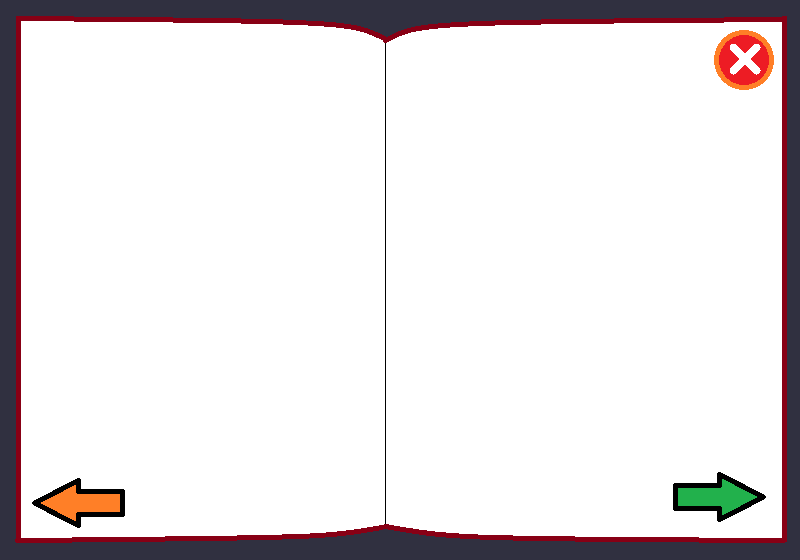
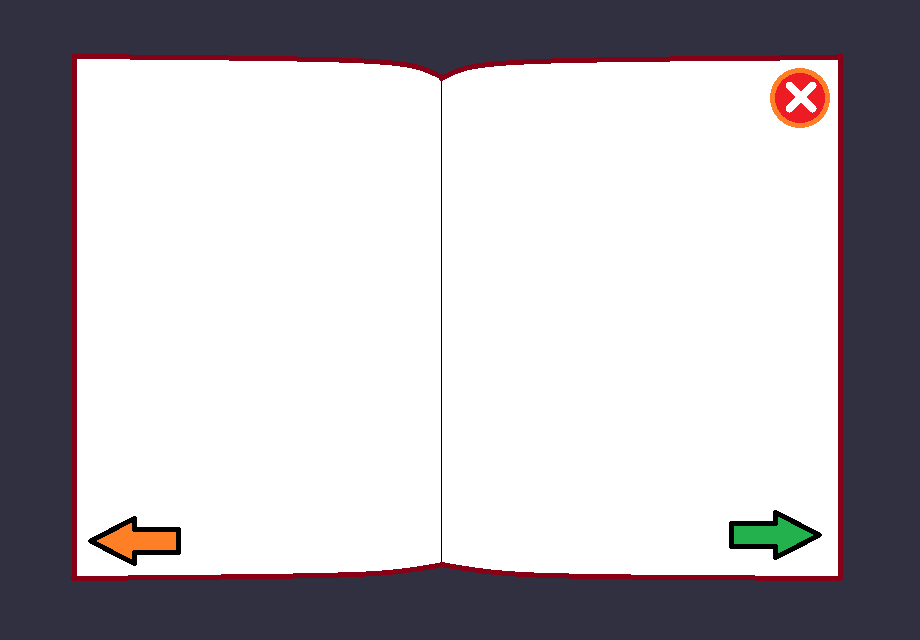
how to play module added
2019142034 조용준

Changed region(s): [[0.0, 0.0304, 1.0, 0.9714]]

diff --git a/project/module_state/how_to_play.py b/project/module_state/how_to_play.py
@@ -1,0 +1,62 @@
+from pico2d import *
+from module_object.buttons_obj import *
+from event_table_module import *
+from module_object.background_obj import Background, Book_page
+import state_changer
+import game_world
+
+def handle_events():
+    global cur_selecting
+    events = get_events()
+    for raw_event in events:
+        event = convert_event(raw_event)
+        if event == QUIT:
+            state_changer.change_state('', None)
+        elif event == KESCD:
+            state_changer.change_state('select_char', 'resume')
+        elif event == MLD:
+            button_clicked = -1
+            for i in range(4):
+                if(buttons[i].isclicked(raw_event.x, raw_event.y)):
+                    button_clicked = i
+                    break
+            if button_clicked == 0:
+                pass
+            if button_clicked == 1:
+                pass
+            elif button_clicked == 2:
+                pass
+            elif button_clicked == 3:
+                pass
+
+def enters(option):
+    global bg, book, cur_selecting, buttons
+    bg = Background('howt')
+    cur_selecting = 0
+    book = Book_page()
+    buttons = [Start_and_Guide_Button(x) for x in (250, 670)] \
+        + [Char_sel_button(x) for x in (260, 660)]
+    game_world.add_object(bg, 'bg')
+    game_world.add_object(book, 'obj')
+
+def exits():
+    global bg, book, cur_selecting, buttons
+    bg = None
+    book = None
+    cur_selecting = None
+    buttons = None
+    game_world.clear_world()
+
+def draw_all():
+    clear_canvas()
+    for objs in game_world.all_objects():
+        objs.draw()
+    update_canvas()
+
+def update():
+    pass
+
+bg = None
+book = None
+cur_selecting = None
+buttons = None

diff --git a/project/module_object/background_obj.py b/project/module_object/background_obj.py
@@ -7,6 +7,7 @@ class Background():
     image_menu = None
     image_play = None
     image_selc = None
+    image_howt = None
     def __init__(self, type):
         self.type = type
         if(Background.image_main == None and self.type == 'main'):
@@ -17,6 +18,8 @@ class Background():
             Background.image_play = load_image('img/field.png')
         elif(Background.image_selc == None and self.type == 'selc'):
             Background.image_selc = load_image('img/character_select_bg.png')
+        elif(Background.image_howt == None and self.type == 'howt'):
+            Background.image_howt = load_image('img/book.png')
         self.image = eval('Background.image_' + self.type)
     def draw(self):
         self.image.draw(UI_WIDTH//2, UI_HEIGHT//2)
@@ -80,3 +83,21 @@ class Selection():
         self.image[Selection.num].draw(UI_WIDTH//2, UI_HEIGHT - 275)
     def change_img(option):
         Selection.num = (Selection.num + option) % 4
+
+class Book_page():
+    MAX_PAGE = 6
+    image = [None for _ in range(MAX_PAGE)]
+    page = 0
+    def __init__(self):
+        Book_page.page = 0
+        if Book_page.image[Book_page.page] == None:
+            for i in range(2):
+                Book_page.image[Book_page.page + i] = load_image('img/help' \
+                    + str(Book_page.page//2) + str(i) + '.png')
+    def change_page(option):
+        Book_page.page = (Book_page.page + option * 2) % Book_page.MAX_PAGE
+    def draw(self):
+        gap = 195
+        for i in range(2):
+            self.image[Book_page.page+i].draw(\
+                UI_WIDTH//2 + gap*2*i - gap, UI_HEIGHT//2)

diff --git a/project/state_changer.py b/project/state_changer.py
@@ -5,6 +5,7 @@ import module_state.snake_move
 import module_state.option_setting
 import module_state.game_menu
 import module_state.select_char
+import module_state.how_to_play
 from time import time
 
 def change_state(next_module_str, next_module_option_str):

diff --git a/project/module_state/select_char.py b/project/module_state/select_char.py
@@ -1,6 +1,5 @@
 from pico2d import *
 from module_object.buttons_obj import *
-from coordinates_module import UI_HEIGHT, UI_WIDTH
 from event_table_module import *
 from module_object.background_obj import Background, Selection
 import state_changer

diff --git a/project/Bomber_Snake.py b/project/Bomber_Snake.py
@@ -3,5 +3,5 @@ from pico2d import *
 open_canvas(UI_WIDTH, UI_HEIGHT)
 
 from state_changer import *
-state_changer_activate('title')
+state_changer_activate('select_char')
 #
